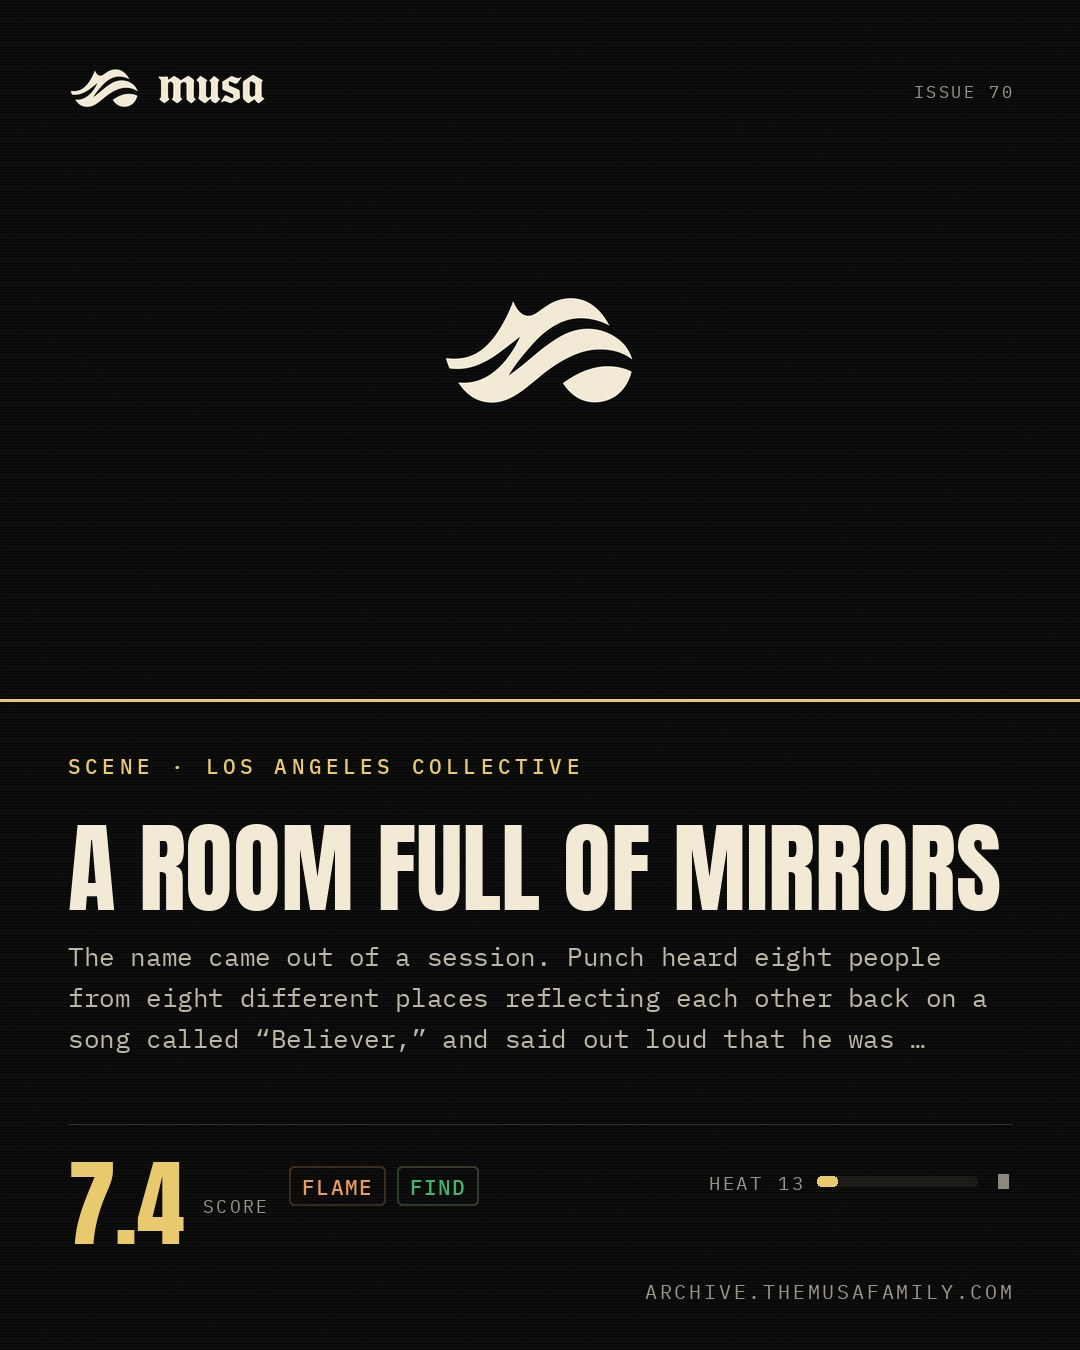
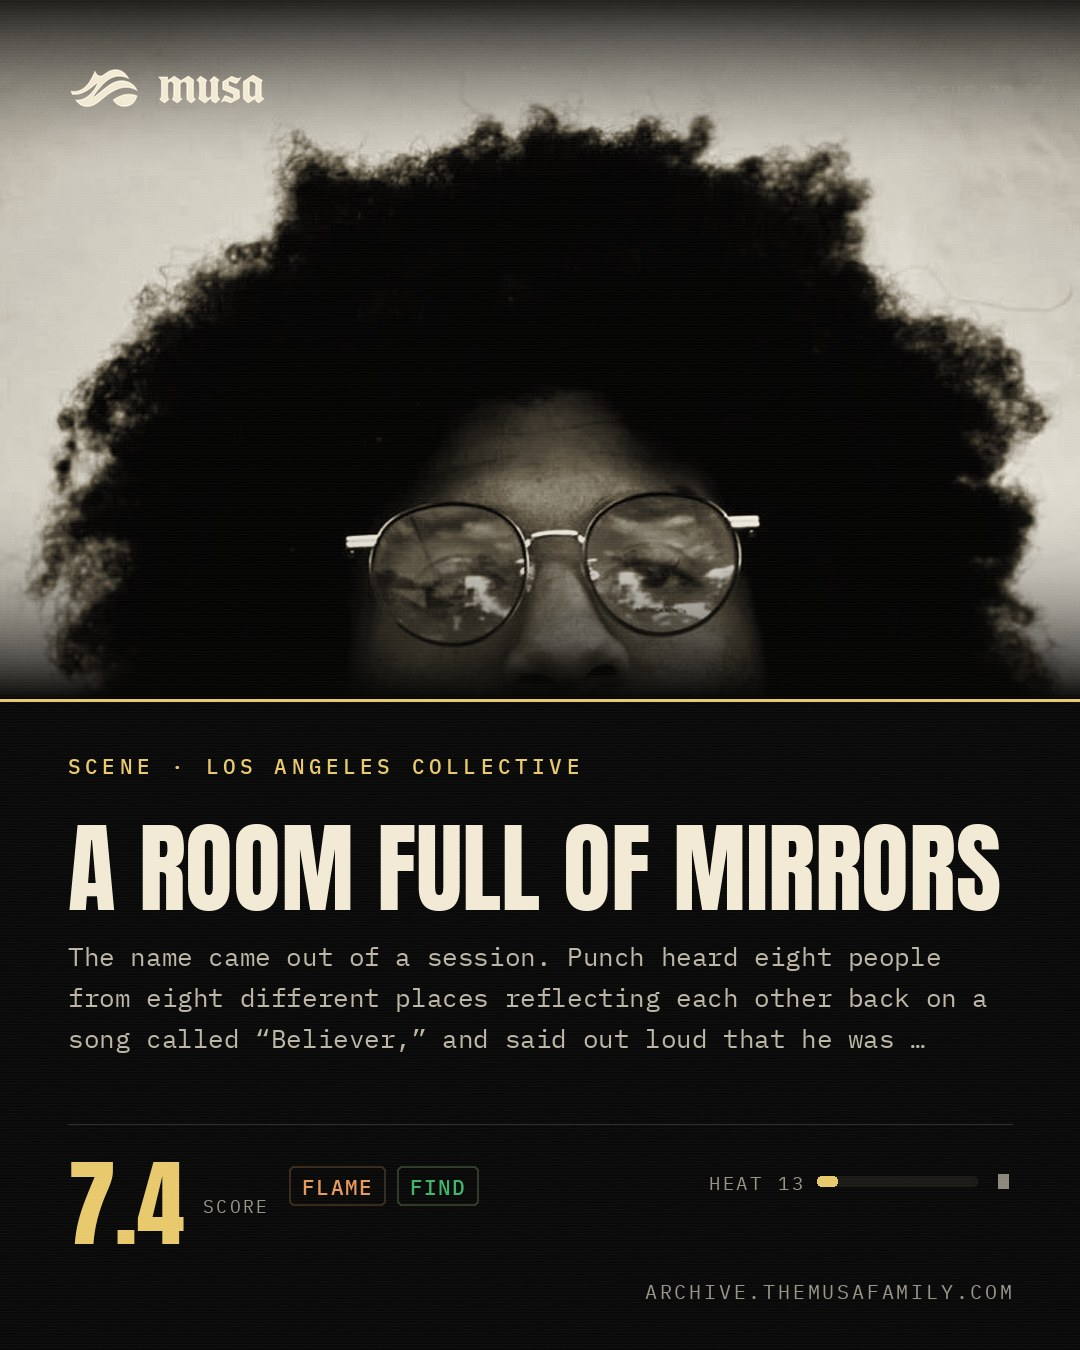
Cache entry art and rebuild cards [auto]

Changed region(s): [[0.0, 0.0, 1.0, 0.5289], [0.3056, 0.2178, 0.7028, 0.4978]]

diff --git a/i/a-room-full-of-mirrors/index.html b/i/a-room-full-of-mirrors/index.html
@@ -131,7 +131,7 @@ footer b{font-family:var(--mono);font-size:9px;color:#b8b09c;letter-spacing:.2em
 </header>
 <div class="eyebrow">ISSUE 70 &nbsp;·&nbsp; <span class="a">SEP 3 2026</span> &nbsp;·&nbsp; SCENE · LOS ANGELES COLLECTIVE</div>
 <h1>A Room Full of Mirrors</h1>
-<figure class="art"><img src="https://archive.themusafamily.com/img/musa-mark.png" alt="A Room Full of Mirrors" loading="lazy" style="height:320px;object-fit:contain;background:#0a0a0a" onerror="this.onerror=null;this.src='https://archive.themusafamily.com/img/musa-mark.png';this.style.objectFit='contain';this.style.background='#0a0a0a'"></figure>
+<figure class="art"><img src="https://cdn.shopify.com/s/files/1/0898/6247/1983/collections/D456991A-4D9A-4411-A5B8-53C7AA12BB0A_1_105_c.jpg?v=1759591612" alt="A Room Full of Mirrors" loading="lazy" onerror="this.onerror=null;this.src='https://archive.themusafamily.com/img/musa-mark.png';this.style.objectFit='contain';this.style.background='#0a0a0a'"></figure>
 <div class="read">The name came out of a session. Punch heard eight people from eight different places reflecting each other back on a song called “Believer,” and said out loud that he was standing in a room full of mirrors. A mirrored room, as a form, usually means one person multiplied for a camera; this one means eight who can see themselves in each other. Punch, Daylyt, Nick Grant, Lyric Michelle, Ichiban Don, Billymaree, Jrias Law, Earlee Riser, Hari, and Punch has always insisted it is not a group. Daylyt shoots and edits video, Lyric Michelle directs, which is why Money Bags landed in December 2021 as a film before it was an eight-track EP. The catch is the calendar. The last record under the collective&#x27;s own name was “105” with Freeway in December 2024, and Punch&#x27;s 2026 verse went to Nick Grant&#x27;s album instead.</div>
 <div class="rail">
   <span class="sc">7.4<small>SCORE</small></span>

diff --git a/i/minimax-music-3/index.html b/i/minimax-music-3/index.html
@@ -131,7 +131,7 @@ footer b{font-family:var(--mono);font-size:9px;color:#b8b09c;letter-spacing:.2em
 </header>
 <div class="eyebrow">ISSUE 70 &nbsp;·&nbsp; <span class="a">SEP 3 2026</span> &nbsp;·&nbsp; TECH · CREATOR-AI</div>
 <h1>MiniMax Music 3</h1>
-<figure class="art"><img src="https://archive.themusafamily.com/img/musa-mark.png" alt="MiniMax Music 3" loading="lazy" style="height:320px;object-fit:contain;background:#0a0a0a" onerror="this.onerror=null;this.src='https://archive.themusafamily.com/img/musa-mark.png';this.style.objectFit='contain';this.style.background='#0a0a0a'"></figure>
+<figure class="art"><img src="https://cdn-thumbnails.huggingface.co/social-thumbnails/models/MiniMaxAI/MiniMax-Music3.png" alt="MiniMax Music 3" loading="lazy" onerror="this.onerror=null;this.src='https://archive.themusafamily.com/img/musa-mark.png';this.style.objectFit='contain';this.style.background='#0a0a0a'"></figure>
 <div class="read">You can download this one and run it. MiniMax Music 3 is a 57GB repository on Hugging Face pairing an 8B global model for song structure with a 0.6B local model for frame-level detail, and it will write a five-minute song with vocals at 32kHz stereo on hardware you own. ComfyUI shipped a template workflow on day one and community GGUF quantizations followed within days. All of that is real, and it landed in the same fortnight as the Suno caps that took effect today. Then read the license. The weights ship under MiniMax&#x27;s own community terms, which are not an OSI license and do not let you sell what comes out, and no benchmark numbers are published against Suno, Udio, YuE or ACE-Step. Open enough to inspect, not open enough to build on. Publish the benchmarks, or change the license, and this becomes a different entry.</div>
 <div class="rail">
   <span class="sc">6.6<small>SCORE</small></span>

diff --git a/i/smiljan-radic/index.html b/i/smiljan-radic/index.html
@@ -131,7 +131,7 @@ footer b{font-family:var(--mono);font-size:9px;color:#b8b09c;letter-spacing:.2em
 </header>
 <div class="eyebrow">ISSUE 2 &nbsp;·&nbsp; <span class="a">JUN 17 2026</span> &nbsp;·&nbsp; ARCHITECTURE</div>
 <h1>Smiljan Radić</h1>
-<figure class="art"><img src="https://archive.themusafamily.com/img/musa-mark.png" alt="Smiljan Radić" loading="lazy" style="height:320px;object-fit:contain;background:#0a0a0a" onerror="this.onerror=null;this.src='https://archive.themusafamily.com/img/musa-mark.png';this.style.objectFit='contain';this.style.background='#0a0a0a'"></figure>
+<figure class="art"><img src="https://www.pritzkerprize.com/sites/default/files/2026-02/Biography_4.jpg" alt="Smiljan Radić" loading="lazy" onerror="this.onerror=null;this.src='https://archive.themusafamily.com/img/musa-mark.png';this.style.objectFit='contain';this.style.background='#0a0a0a'"></figure>
 <div class="read">The 2026 Pritzker, architecture&#x27;s quietest radical. The tension: the prize sits under an Epstein-linked cloud; the work transcends the institution stamping it.</div>
 <div class="rail">
   <span class="sc">9.1<small>SCORE</small></span>

diff --git a/i/douglas-stuart-john-of-john/index.html b/i/douglas-stuart-john-of-john/index.html
@@ -131,7 +131,7 @@ footer b{font-family:var(--mono);font-size:9px;color:#b8b09c;letter-spacing:.2em
 </header>
 <div class="eyebrow">ISSUE 1 &nbsp;·&nbsp; <span class="a">JUN 17 2026</span> &nbsp;·&nbsp; BOOKS</div>
 <h1>Douglas Stuart — John of John</h1>
-<figure class="art"><img src="https://archive.themusafamily.com/img/musa-mark.png" alt="Douglas Stuart — John of John" loading="lazy" style="height:320px;object-fit:contain;background:#0a0a0a" onerror="this.onerror=null;this.src='https://archive.themusafamily.com/img/musa-mark.png';this.style.objectFit='contain';this.style.background='#0a0a0a'"></figure>
+<figure class="art"><img src="https://groveatlantic.com/core/wp-content/themes/groveatlantic/images/image-coming-soon.jpg" alt="Douglas Stuart — John of John" loading="lazy" onerror="this.onerror=null;this.src='https://archive.themusafamily.com/img/musa-mark.png';this.style.objectFit='contain';this.style.background='#0a0a0a'"></figure>
 <div class="read">Shuggie Bain Booker winner returns, Hebrides-set; craft over noise, quiet heat is the tell.</div>
 <div class="rail">
   <span class="sc">8.2<small>SCORE</small></span>
